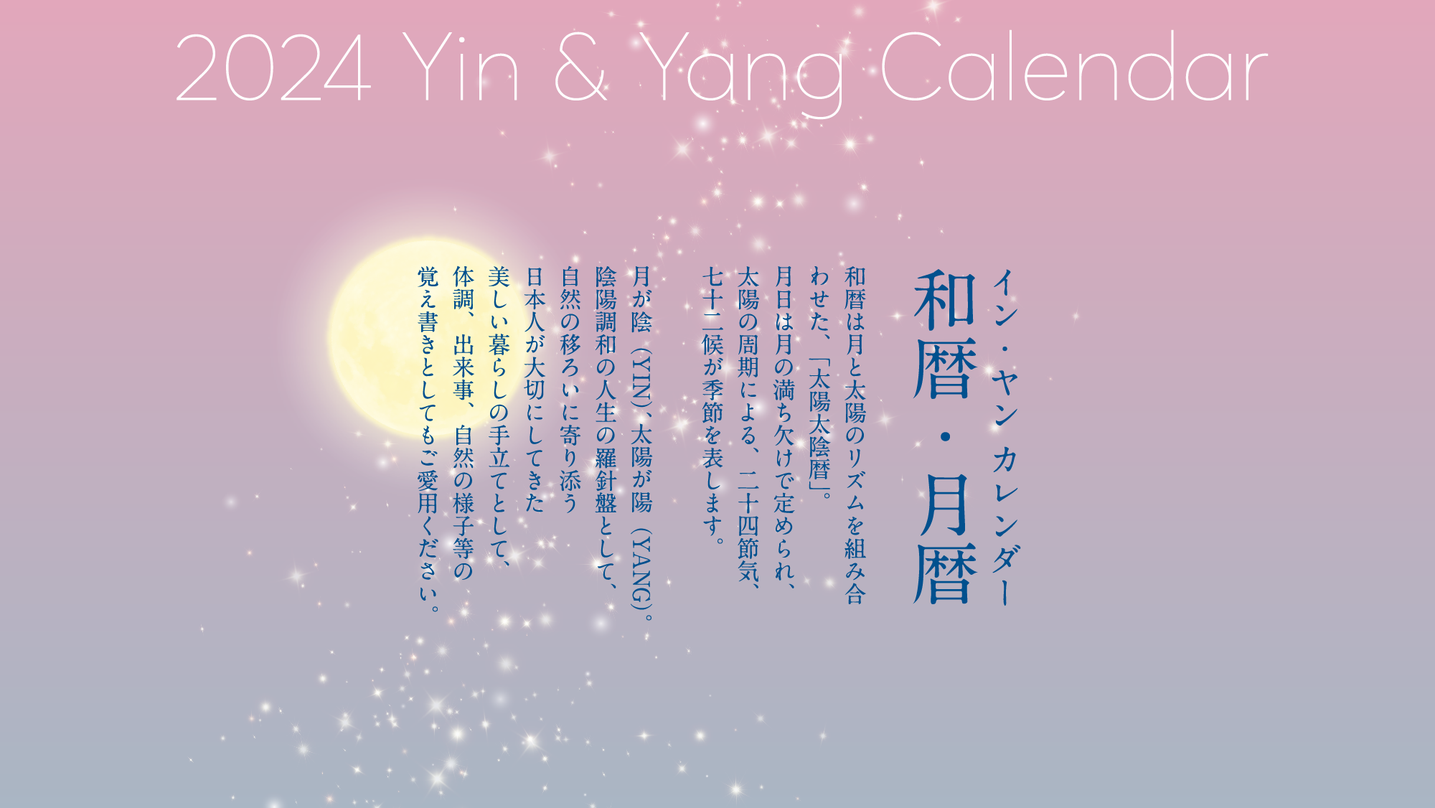
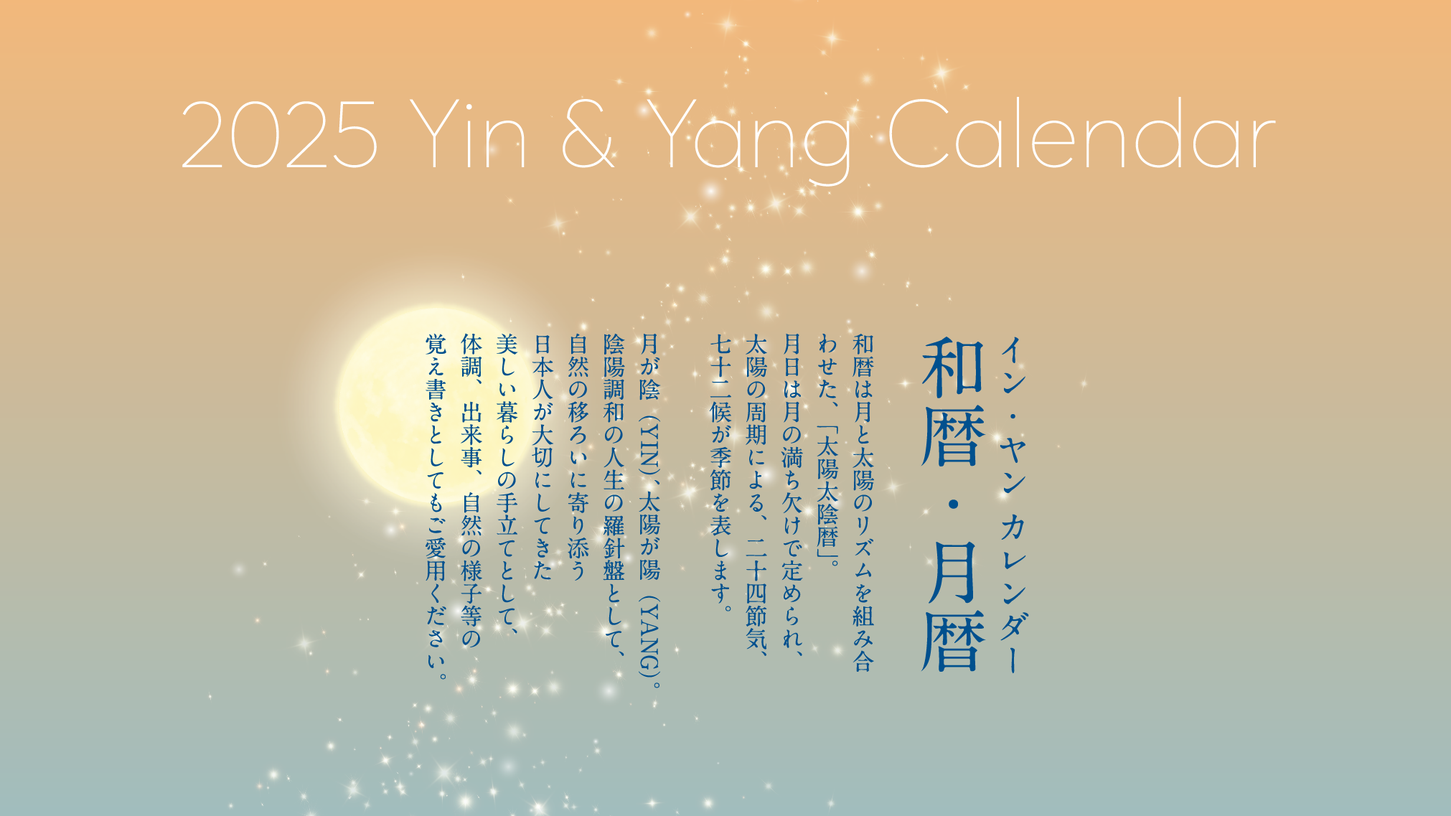
Add 2025

diff --git a/docs/_nuxt/dd99a91.js b/docs/_nuxt/dd99a91.js
@@ -1,0 +1,1 @@
+(window.webpackJsonp=window.webpackJsonp||[]).push([[3,2],{289:function(t,n,e){var content=e(292);content.__esModule&&(content=content.default),"string"==typeof content&&(content=[[t.i,content,""]]),content.locals&&(t.exports=content.locals);(0,e(61).default)("5e4b7342",content,!0,{sourceMap:!1})},290:function(t,n,e){"use strict";e.r(n);e(291);var o=e(44),component=Object(o.a)({},(function(){this._self._c;return this._m(0)}),[function(){var t=this._self._c;return t("footer",[t("div",{staticClass:"container text-center"},[t("div",{staticClass:"row"},[t("div",{staticClass:"col-md-8 col-md-offset-2 footer"},[t("div",{staticClass:"copyright"},[t("small",[this._v("Copyright © Yin&Yang Calendar All rights reserved.")])])])])])])}],!1,null,"673f15c2",null);n.default=component.exports;installComponents(component,{Footer:e(290).default})},291:function(t,n,e){"use strict";e(289)},292:function(t,n,e){var o=e(60)((function(i){return i[1]}));o.push([t.i,".footer[data-v-673f15c2]{color:#fff;margin-bottom:25px;margin-top:25px}",""]),o.locals={},t.exports=o},294:function(t,n,e){var content=e(301);content.__esModule&&(content=content.default),"string"==typeof content&&(content=[[t.i,content,""]]),content.locals&&(t.exports=content.locals);(0,e(61).default)("0acffc4a",content,!0,{sourceMap:!1})},295:function(t,n,e){var content=e(305);content.__esModule&&(content=content.default),"string"==typeof content&&(content=[[t.i,content,""]]),content.locals&&(t.exports=content.locals);(0,e(61).default)("6ab918de",content,!0,{sourceMap:!1})},298:function(t,n,e){t.exports=e.p+"img/title.49f3552.svg"},299:function(t,n,e){t.exports=e.p+"img/text.3ef17b1.svg"},300:function(t,n,e){"use strict";e(294)},301:function(t,n,e){var o=e(60),r=e(131),l=e(302),c=e(303),d=o((function(i){return i[1]})),f=r(l),m=r(c);d.push([t.i,".bg[data-v-15ad3a7e]{display:none}@media(min-width:768px){.bg[data-v-15ad3a7e]{background-image:url("+f+");background-position:30% top;background-repeat:no-repeat;background-size:contain;display:block;height:100%;mix-blend-mode:screen;position:absolute;width:100%}}.main[data-v-15ad3a7e]{background-image:url("+m+");background-position:100% 100%;background-repeat:no-repeat;background-size:contain;mix-blend-mode:normal;padding-bottom:50px}@media(min-width:768px){.main[data-v-15ad3a7e]{background-position:28% 38%;background-size:20%;padding-bottom:50px}}.title[data-v-15ad3a7e]{padding:50px 0}@media(min-width:768px){.title[data-v-15ad3a7e]{padding:80px 0}}.text[data-v-15ad3a7e]{padding:20px 0}@media(min-width:768px){.text[data-v-15ad3a7e]{padding:50px 0}.text img[data-v-15ad3a7e]{width:420px}}.center-block .color-gold[data-v-15ad3a7e]{background-color:#fff;border:1px solid #fff;color:#cea57e}.center-block .color-gold[data-v-15ad3a7e]:focus,.center-block .color-gold[data-v-15ad3a7e]:hover{background-color:#cea57e;border:1px solid #cea57e;color:#fff;outline:none}",""]),d.locals={},t.exports=d},302:function(t,n,e){t.exports=e.p+"img/bg@2x.7ae2d56.png"},303:function(t,n,e){t.exports=e.p+"img/moon@2x.6d5a927.png"},304:function(t,n,e){"use strict";e(295)},305:function(t,n,e){var o=e(60)((function(i){return i[1]}));o.push([t.i,".banner ul div{margin-bottom:30px}.banner ul div a{color:#fff}.banner li{margin-bottom:15px}.banner li.center-block{display:block}.banner li small{font-size:10px;margin-right:5px}.banner .btn{border-radius:0;transition:all .3s ease-in-out}.banner .btn-default{background-color:transparent;border:1px solid #fff;color:#fff}.banner .btn-default:focus,.banner .btn-default:hover{background-color:#cea57e;border:1px solid #cea57e;color:#fff;outline:none}",""]),o.locals={},t.exports=o},307:function(t,n,e){"use strict";e.r(n);var o=[function(){var t=this,n=t._self._c;return n("div",{staticClass:"col-md-12 main"},[n("div",{staticClass:"bg"}),t._v(" "),n("div",{staticClass:"container"},[n("div",{staticClass:"row"},[n("div",{staticClass:"col-md-8 col-md-offset-2 title"},[n("img",{attrs:{src:e(298),alt:"2025 Yin&Yang Calendar"}})])])]),t._v(" "),n("div",{staticClass:"text"},[n("img",{attrs:{src:e(299),alt:"イン・ヤン カレンダー 和暦・月暦"}})])])},function(){var t=this,n=t._self._c;return n("li",{staticClass:"center-block"},[n("a",{staticClass:"btn btn-default btn-lg color-gold",attrs:{href:"https://www.amazon.co.jp/dp/B0DG5CHNWW?tag=chiakira-22",target:"_blank"}},[n("i",{staticClass:"fab fa-amazon fa-fw"}),t._v(" "),n("span",{staticClass:"network-name"},[t._v("Amazonで詳しくみる")])])])},function(){var t=this,n=t._self._c;return n("li",{staticClass:"center-block"},[n("a",{staticClass:"btn btn-default btn-lg",attrs:{href:"https://tukiyomi.in/",target:"_blank"}},[n("span",{staticClass:"network-name"},[n("small",[t._v("Salon")]),t._v("つきよみ白金台\n                ")])])])},function(){var t=this,n=t._self._c;return n("li",[n("a",{staticClass:"btn btn-default btn-lg",attrs:{href:"https://www.instagram.com/tukiyomichan/",target:"_blank"}},[n("i",{staticClass:"fab fa-instagram fa-fw"}),t._v(" "),n("span",{staticClass:"network-name"},[t._v("Instagram")])])])},function(){var t=this,n=t._self._c;return n("li",[n("a",{staticClass:"btn btn-default btn-lg",attrs:{href:"https://www.facebook.com/tukiyomichan",target:"_blank"}},[n("i",{staticClass:"fab fa-facebook-square fa-fw"}),t._v(" "),n("span",{staticClass:"network-name"},[t._v("Facebook")])])])},function(){var t=this,n=t._self._c;return n("li",[n("a",{staticClass:"btn btn-default btn-lg",attrs:{href:"https://twitter.com/tukiyomichan",target:"_blank"}},[n("i",{staticClass:"fab fa-twitter fa-fw"}),t._v(" "),n("span",{staticClass:"network-name"},[t._v("Twitter")])])])},function(){var t=this,n=t._self._c;return n("li",[n("a",{staticClass:"btn btn-default btn-lg",attrs:{href:"https://ameblo.jp/tukiyomichan/",target:"_blank"}},[n("i",{staticClass:"fas fa-edit fa-fw"}),t._v(" "),n("span",{staticClass:"network-name"},[t._v("Blog")])])])}],r=(e(300),e(304),e(44)),component=Object(r.a)({},(function(){var t=this,n=t._self._c;return n("div",[n("main",[n("div",{staticClass:"container text-center"},[n("div",{staticClass:"row"},[t._m(0),t._v(" "),n("div",{staticClass:"col-md-8 col-md-offset-2 banner"},[n("ul",{staticClass:"list-inline"},[t._m(1),t._v(" "),n("div",[n("nuxt-link",{attrs:{to:"/pricing/"}},[t._v("卸価格はこちら")])],1),t._v(" "),t._m(2),t._v(" "),t._m(3),t._v(" "),t._m(4),t._v(" "),t._m(5),t._v(" "),t._m(6)])])])])]),t._v(" "),n("Footer")],1)}),o,!1,null,"15ad3a7e",null);n.default=component.exports;installComponents(component,{Footer:e(290).default})}}]);

diff --git a/docs/200.html b/docs/200.html
@@ -1,9 +1,9 @@
 <!doctype html>
 <html>
   <head>
-    <meta data-n-head="1" charset="utf-8"><meta data-n-head="1" name="viewport" content="width=device-width,initial-scale=1"><meta data-n-head="1" data-hid="description" name="description" content="今日が和暦で何月何日なのかが簡単にわかるカレンダー「Yin&Yang Calendar」"><meta data-n-head="1" property="og:url" content="https://yinyang-calendar.com/"><meta data-n-head="1" property="og:title" content="Yin&Yang Calendar"><meta data-n-head="1" property="og:description" content="今日が和暦で何月何日なのかが簡単にわかるカレンダー「Yin&Yang Calendar」"><meta data-n-head="1" property="og:image" content="https://yinyang-calendar.com/og.png"><meta data-n-head="1" property="og:type" content="website"><meta data-n-head="1" property="og:site_name" content="Yin&Yang Calendar"><meta data-n-head="1" name="twitter:card" content="summary_large_image"><meta data-n-head="1" name="twitter:site" content="@tukiyomichan"><meta data-n-head="1" name="twitter:title" content="Yin&Yang Calendar"><meta data-n-head="1" name="twitter:description" content="今日が和暦で何月何日なのかが簡単にわかるカレンダー「Yin&Yang Calendar」"><meta data-n-head="1" name="twitter:image" content="https://yinyang-calendar.com/og.png"><title>Yin&Yang Calendar</title><link data-n-head="1" rel="icon" href="/favicon.png"><link data-n-head="1" rel="canonical" href="https://yinyang-calendar.com/"><link rel="preload" href="/_nuxt/902f355.js" as="script"><link rel="preload" href="/_nuxt/4d5137b.js" as="script"><link rel="preload" href="/_nuxt/0d0df91.js" as="script"><link rel="preload" href="/_nuxt/0bcc690.js" as="script">
+    <meta data-n-head="1" charset="utf-8"><meta data-n-head="1" name="viewport" content="width=device-width,initial-scale=1"><meta data-n-head="1" data-hid="description" name="description" content="今日が和暦で何月何日なのかが簡単にわかるカレンダー「Yin&Yang Calendar」"><meta data-n-head="1" property="og:url" content="https://yinyang-calendar.com/"><meta data-n-head="1" property="og:title" content="Yin&Yang Calendar"><meta data-n-head="1" property="og:description" content="今日が和暦で何月何日なのかが簡単にわかるカレンダー「Yin&Yang Calendar」"><meta data-n-head="1" property="og:image" content="https://yinyang-calendar.com/og.png"><meta data-n-head="1" property="og:type" content="website"><meta data-n-head="1" property="og:site_name" content="Yin&Yang Calendar"><meta data-n-head="1" name="twitter:card" content="summary_large_image"><meta data-n-head="1" name="twitter:site" content="@tukiyomichan"><meta data-n-head="1" name="twitter:title" content="Yin&Yang Calendar"><meta data-n-head="1" name="twitter:description" content="今日が和暦で何月何日なのかが簡単にわかるカレンダー「Yin&Yang Calendar」"><meta data-n-head="1" name="twitter:image" content="https://yinyang-calendar.com/og.png"><title>Yin&Yang Calendar</title><link data-n-head="1" rel="icon" href="/favicon.png"><link data-n-head="1" rel="canonical" href="https://yinyang-calendar.com/"><link rel="preload" href="/_nuxt/3dc8ebc.js" as="script"><link rel="preload" href="/_nuxt/4d5137b.js" as="script"><link rel="preload" href="/_nuxt/0d0df91.js" as="script"><link rel="preload" href="/_nuxt/50567b7.js" as="script">
   </head>
   <body>
     <div id="__nuxt"><style>#nuxt-loading{background:#fff;visibility:hidden;opacity:0;position:absolute;left:0;right:0;top:0;bottom:0;display:flex;justify-content:center;align-items:center;flex-direction:column;animation:nuxtLoadingIn 10s ease;-webkit-animation:nuxtLoadingIn 10s ease;animation-fill-mode:forwards;overflow:hidden}@keyframes nuxtLoadingIn{0%{visibility:hidden;opacity:0}20%{visibility:visible;opacity:0}100%{visibility:visible;opacity:1}}@-webkit-keyframes nuxtLoadingIn{0%{visibility:hidden;opacity:0}20%{visibility:visible;opacity:0}100%{visibility:visible;opacity:1}}#nuxt-loading>div,#nuxt-loading>div:after{border-radius:50%;width:5rem;height:5rem}#nuxt-loading>div{font-size:10px;position:relative;text-indent:-9999em;border:.5rem solid #f5f5f5;border-left:.5rem solid #000;-webkit-transform:translateZ(0);-ms-transform:translateZ(0);transform:translateZ(0);-webkit-animation:nuxtLoading 1.1s infinite linear;animation:nuxtLoading 1.1s infinite linear}#nuxt-loading.error>div{border-left:.5rem solid #ff4500;animation-duration:5s}@-webkit-keyframes nuxtLoading{0%{-webkit-transform:rotate(0);transform:rotate(0)}100%{-webkit-transform:rotate(360deg);transform:rotate(360deg)}}@keyframes nuxtLoading{0%{-webkit-transform:rotate(0);transform:rotate(0)}100%{-webkit-transform:rotate(360deg);transform:rotate(360deg)}}</style> <script>window.addEventListener("error",function(){var e=document.getElementById("nuxt-loading");e&&(e.className+=" error")})</script> <div id="nuxt-loading" aria-live="polite" role="status"><div>Loading...</div></div> </div><script>window.__NUXT__={config:{_app:{basePath:"/",assetsPath:"/_nuxt/",cdnURL:null}}}</script>
-  <script src="/_nuxt/902f355.js"></script><script src="/_nuxt/4d5137b.js"></script><script src="/_nuxt/0d0df91.js"></script><script src="/_nuxt/0bcc690.js"></script></body>
+  <script src="/_nuxt/3dc8ebc.js"></script><script src="/_nuxt/4d5137b.js"></script><script src="/_nuxt/0d0df91.js"></script><script src="/_nuxt/50567b7.js"></script></body>
 </html>

diff --git a/docs/index.html b/docs/index.html
@@ -1,9 +1,9 @@
 <!doctype html>
 <html>
   <head>
-    <meta data-n-head="1" charset="utf-8"><meta data-n-head="1" name="viewport" content="width=device-width,initial-scale=1"><meta data-n-head="1" data-hid="description" name="description" content="今日が和暦で何月何日なのかが簡単にわかるカレンダー「Yin&Yang Calendar」"><meta data-n-head="1" property="og:url" content="https://yinyang-calendar.com/"><meta data-n-head="1" property="og:title" content="Yin&Yang Calendar"><meta data-n-head="1" property="og:description" content="今日が和暦で何月何日なのかが簡単にわかるカレンダー「Yin&Yang Calendar」"><meta data-n-head="1" property="og:image" content="https://yinyang-calendar.com/og.png"><meta data-n-head="1" property="og:type" content="website"><meta data-n-head="1" property="og:site_name" content="Yin&Yang Calendar"><meta data-n-head="1" name="twitter:card" content="summary_large_image"><meta data-n-head="1" name="twitter:site" content="@tukiyomichan"><meta data-n-head="1" name="twitter:title" content="Yin&Yang Calendar"><meta data-n-head="1" name="twitter:description" content="今日が和暦で何月何日なのかが簡単にわかるカレンダー「Yin&Yang Calendar」"><meta data-n-head="1" name="twitter:image" content="https://yinyang-calendar.com/og.png"><title>Yin&Yang Calendar</title><link data-n-head="1" rel="icon" href="/favicon.png"><link data-n-head="1" rel="canonical" href="https://yinyang-calendar.com/"><link rel="preload" href="/_nuxt/902f355.js" as="script"><link rel="preload" href="/_nuxt/4d5137b.js" as="script"><link rel="preload" href="/_nuxt/0d0df91.js" as="script"><link rel="preload" href="/_nuxt/0bcc690.js" as="script">
+    <meta data-n-head="1" charset="utf-8"><meta data-n-head="1" name="viewport" content="width=device-width,initial-scale=1"><meta data-n-head="1" data-hid="description" name="description" content="今日が和暦で何月何日なのかが簡単にわかるカレンダー「Yin&Yang Calendar」"><meta data-n-head="1" property="og:url" content="https://yinyang-calendar.com/"><meta data-n-head="1" property="og:title" content="Yin&Yang Calendar"><meta data-n-head="1" property="og:description" content="今日が和暦で何月何日なのかが簡単にわかるカレンダー「Yin&Yang Calendar」"><meta data-n-head="1" property="og:image" content="https://yinyang-calendar.com/og.png"><meta data-n-head="1" property="og:type" content="website"><meta data-n-head="1" property="og:site_name" content="Yin&Yang Calendar"><meta data-n-head="1" name="twitter:card" content="summary_large_image"><meta data-n-head="1" name="twitter:site" content="@tukiyomichan"><meta data-n-head="1" name="twitter:title" content="Yin&Yang Calendar"><meta data-n-head="1" name="twitter:description" content="今日が和暦で何月何日なのかが簡単にわかるカレンダー「Yin&Yang Calendar」"><meta data-n-head="1" name="twitter:image" content="https://yinyang-calendar.com/og.png"><title>Yin&Yang Calendar</title><link data-n-head="1" rel="icon" href="/favicon.png"><link data-n-head="1" rel="canonical" href="https://yinyang-calendar.com/"><link rel="preload" href="/_nuxt/3dc8ebc.js" as="script"><link rel="preload" href="/_nuxt/4d5137b.js" as="script"><link rel="preload" href="/_nuxt/0d0df91.js" as="script"><link rel="preload" href="/_nuxt/50567b7.js" as="script">
   </head>
   <body>
     <div id="__nuxt"><style>#nuxt-loading{background:#fff;visibility:hidden;opacity:0;position:absolute;left:0;right:0;top:0;bottom:0;display:flex;justify-content:center;align-items:center;flex-direction:column;animation:nuxtLoadingIn 10s ease;-webkit-animation:nuxtLoadingIn 10s ease;animation-fill-mode:forwards;overflow:hidden}@keyframes nuxtLoadingIn{0%{visibility:hidden;opacity:0}20%{visibility:visible;opacity:0}100%{visibility:visible;opacity:1}}@-webkit-keyframes nuxtLoadingIn{0%{visibility:hidden;opacity:0}20%{visibility:visible;opacity:0}100%{visibility:visible;opacity:1}}#nuxt-loading>div,#nuxt-loading>div:after{border-radius:50%;width:5rem;height:5rem}#nuxt-loading>div{font-size:10px;position:relative;text-indent:-9999em;border:.5rem solid #f5f5f5;border-left:.5rem solid #000;-webkit-transform:translateZ(0);-ms-transform:translateZ(0);transform:translateZ(0);-webkit-animation:nuxtLoading 1.1s infinite linear;animation:nuxtLoading 1.1s infinite linear}#nuxt-loading.error>div{border-left:.5rem solid #ff4500;animation-duration:5s}@-webkit-keyframes nuxtLoading{0%{-webkit-transform:rotate(0);transform:rotate(0)}100%{-webkit-transform:rotate(360deg);transform:rotate(360deg)}}@keyframes nuxtLoading{0%{-webkit-transform:rotate(0);transform:rotate(0)}100%{-webkit-transform:rotate(360deg);transform:rotate(360deg)}}</style> <script>window.addEventListener("error",function(){var e=document.getElementById("nuxt-loading");e&&(e.className+=" error")})</script> <div id="nuxt-loading" aria-live="polite" role="status"><div>Loading...</div></div> </div><script>window.__NUXT__={config:{_app:{basePath:"/",assetsPath:"/_nuxt/",cdnURL:null}}}</script>
-  <script src="/_nuxt/902f355.js"></script><script src="/_nuxt/4d5137b.js"></script><script src="/_nuxt/0d0df91.js"></script><script src="/_nuxt/0bcc690.js"></script></body>
+  <script src="/_nuxt/3dc8ebc.js"></script><script src="/_nuxt/4d5137b.js"></script><script src="/_nuxt/0d0df91.js"></script><script src="/_nuxt/50567b7.js"></script></body>
 </html>

diff --git a/docs/pricing/index.html b/docs/pricing/index.html
@@ -1,9 +1,9 @@
 <!doctype html>
 <html>
   <head>
-    <meta data-n-head="1" charset="utf-8"><meta data-n-head="1" name="viewport" content="width=device-width,initial-scale=1"><meta data-n-head="1" data-hid="description" name="description" content="今日が和暦で何月何日なのかが簡単にわかるカレンダー「Yin&Yang Calendar」"><meta data-n-head="1" property="og:url" content="https://yinyang-calendar.com/"><meta data-n-head="1" property="og:title" content="Yin&Yang Calendar"><meta data-n-head="1" property="og:description" content="今日が和暦で何月何日なのかが簡単にわかるカレンダー「Yin&Yang Calendar」"><meta data-n-head="1" property="og:image" content="https://yinyang-calendar.com/og.png"><meta data-n-head="1" property="og:type" content="website"><meta data-n-head="1" property="og:site_name" content="Yin&Yang Calendar"><meta data-n-head="1" name="twitter:card" content="summary_large_image"><meta data-n-head="1" name="twitter:site" content="@tukiyomichan"><meta data-n-head="1" name="twitter:title" content="Yin&Yang Calendar"><meta data-n-head="1" name="twitter:description" content="今日が和暦で何月何日なのかが簡単にわかるカレンダー「Yin&Yang Calendar」"><meta data-n-head="1" name="twitter:image" content="https://yinyang-calendar.com/og.png"><title>Yin&Yang Calendar</title><link data-n-head="1" rel="icon" href="/favicon.png"><link data-n-head="1" rel="canonical" href="https://yinyang-calendar.com/"><link rel="preload" href="/_nuxt/902f355.js" as="script"><link rel="preload" href="/_nuxt/4d5137b.js" as="script"><link rel="preload" href="/_nuxt/0d0df91.js" as="script"><link rel="preload" href="/_nuxt/0bcc690.js" as="script">
+    <meta data-n-head="1" charset="utf-8"><meta data-n-head="1" name="viewport" content="width=device-width,initial-scale=1"><meta data-n-head="1" data-hid="description" name="description" content="今日が和暦で何月何日なのかが簡単にわかるカレンダー「Yin&Yang Calendar」"><meta data-n-head="1" property="og:url" content="https://yinyang-calendar.com/"><meta data-n-head="1" property="og:title" content="Yin&Yang Calendar"><meta data-n-head="1" property="og:description" content="今日が和暦で何月何日なのかが簡単にわかるカレンダー「Yin&Yang Calendar」"><meta data-n-head="1" property="og:image" content="https://yinyang-calendar.com/og.png"><meta data-n-head="1" property="og:type" content="website"><meta data-n-head="1" property="og:site_name" content="Yin&Yang Calendar"><meta data-n-head="1" name="twitter:card" content="summary_large_image"><meta data-n-head="1" name="twitter:site" content="@tukiyomichan"><meta data-n-head="1" name="twitter:title" content="Yin&Yang Calendar"><meta data-n-head="1" name="twitter:description" content="今日が和暦で何月何日なのかが簡単にわかるカレンダー「Yin&Yang Calendar」"><meta data-n-head="1" name="twitter:image" content="https://yinyang-calendar.com/og.png"><title>Yin&Yang Calendar</title><link data-n-head="1" rel="icon" href="/favicon.png"><link data-n-head="1" rel="canonical" href="https://yinyang-calendar.com/"><link rel="preload" href="/_nuxt/3dc8ebc.js" as="script"><link rel="preload" href="/_nuxt/4d5137b.js" as="script"><link rel="preload" href="/_nuxt/0d0df91.js" as="script"><link rel="preload" href="/_nuxt/50567b7.js" as="script">
   </head>
   <body>
     <div id="__nuxt"><style>#nuxt-loading{background:#fff;visibility:hidden;opacity:0;position:absolute;left:0;right:0;top:0;bottom:0;display:flex;justify-content:center;align-items:center;flex-direction:column;animation:nuxtLoadingIn 10s ease;-webkit-animation:nuxtLoadingIn 10s ease;animation-fill-mode:forwards;overflow:hidden}@keyframes nuxtLoadingIn{0%{visibility:hidden;opacity:0}20%{visibility:visible;opacity:0}100%{visibility:visible;opacity:1}}@-webkit-keyframes nuxtLoadingIn{0%{visibility:hidden;opacity:0}20%{visibility:visible;opacity:0}100%{visibility:visible;opacity:1}}#nuxt-loading>div,#nuxt-loading>div:after{border-radius:50%;width:5rem;height:5rem}#nuxt-loading>div{font-size:10px;position:relative;text-indent:-9999em;border:.5rem solid #f5f5f5;border-left:.5rem solid #000;-webkit-transform:translateZ(0);-ms-transform:translateZ(0);transform:translateZ(0);-webkit-animation:nuxtLoading 1.1s infinite linear;animation:nuxtLoading 1.1s infinite linear}#nuxt-loading.error>div{border-left:.5rem solid #ff4500;animation-duration:5s}@-webkit-keyframes nuxtLoading{0%{-webkit-transform:rotate(0);transform:rotate(0)}100%{-webkit-transform:rotate(360deg);transform:rotate(360deg)}}@keyframes nuxtLoading{0%{-webkit-transform:rotate(0);transform:rotate(0)}100%{-webkit-transform:rotate(360deg);transform:rotate(360deg)}}</style> <script>window.addEventListener("error",function(){var e=document.getElementById("nuxt-loading");e&&(e.className+=" error")})</script> <div id="nuxt-loading" aria-live="polite" role="status"><div>Loading...</div></div> </div><script>window.__NUXT__={config:{_app:{basePath:"/",assetsPath:"/_nuxt/",cdnURL:null}}}</script>
-  <script src="/_nuxt/902f355.js"></script><script src="/_nuxt/4d5137b.js"></script><script src="/_nuxt/0d0df91.js"></script><script src="/_nuxt/0bcc690.js"></script></body>
+  <script src="/_nuxt/3dc8ebc.js"></script><script src="/_nuxt/4d5137b.js"></script><script src="/_nuxt/0d0df91.js"></script><script src="/_nuxt/50567b7.js"></script></body>
 </html>

diff --git a/docs/_nuxt/3dc8ebc.js b/docs/_nuxt/3dc8ebc.js
@@ -1,0 +1,1 @@
+!function(e){function r(data){for(var r,n,l=data[0],f=data[1],d=data[2],i=0,h=[];i<l.length;i++)n=l[i],Object.prototype.hasOwnProperty.call(o,n)&&o[n]&&h.push(o[n][0]),o[n]=0;for(r in f)Object.prototype.hasOwnProperty.call(f,r)&&(e[r]=f[r]);for(v&&v(data);h.length;)h.shift()();return c.push.apply(c,d||[]),t()}function t(){for(var e,i=0;i<c.length;i++){for(var r=c[i],t=!0,n=1;n<r.length;n++){var f=r[n];0!==o[f]&&(t=!1)}t&&(c.splice(i--,1),e=l(l.s=r[0]))}return e}var n={},o={5:0},c=[];function l(r){if(n[r])return n[r].exports;var t=n[r]={i:r,l:!1,exports:{}};return e[r].call(t.exports,t,t.exports,l),t.l=!0,t.exports}l.e=function(e){var r=[],t=o[e];if(0!==t)if(t)r.push(t[2]);else{var n=new Promise((function(r,n){t=o[e]=[r,n]}));r.push(t[2]=n);var c,script=document.createElement("script");script.charset="utf-8",script.timeout=120,l.nc&&script.setAttribute("nonce",l.nc),script.src=function(e){return l.p+""+{2:"600dd1d",3:"dd99a91",4:"989aa0b"}[e]+".js"}(e);var f=new Error;c=function(r){script.onerror=script.onload=null,clearTimeout(d);var t=o[e];if(0!==t){if(t){var n=r&&("load"===r.type?"missing":r.type),c=r&&r.target&&r.target.src;f.message="Loading chunk "+e+" failed.\n("+n+": "+c+")",f.name="ChunkLoadError",f.type=n,f.request=c,t[1](f)}o[e]=void 0}};var d=setTimeout((function(){c({type:"timeout",target:script})}),12e4);script.onerror=script.onload=c,document.head.appendChild(script)}return Promise.all(r)},l.m=e,l.c=n,l.d=function(e,r,t){l.o(e,r)||Object.defineProperty(e,r,{enumerable:!0,get:t})},l.r=function(e){"undefined"!=typeof Symbol&&Symbol.toStringTag&&Object.defineProperty(e,Symbol.toStringTag,{value:"Module"}),Object.defineProperty(e,"__esModule",{value:!0})},l.t=function(e,r){if(1&r&&(e=l(e)),8&r)return e;if(4&r&&"object"==typeof e&&e&&e.__esModule)return e;var t=Object.create(null);if(l.r(t),Object.defineProperty(t,"default",{enumerable:!0,value:e}),2&r&&"string"!=typeof e)for(var n in e)l.d(t,n,function(r){return e[r]}.bind(null,n));return t},l.n=function(e){var r=e&&e.__esModule?function(){return e.default}:function(){return e};return l.d(r,"a",r),r},l.o=function(object,e){return Object.prototype.hasOwnProperty.call(object,e)},l.p="/_nuxt/",l.oe=function(e){throw console.error(e),e};var f=window.webpackJsonp=window.webpackJsonp||[],d=f.push.bind(f);f.push=r,f=f.slice();for(var i=0;i<f.length;i++)r(f[i]);var v=d;t()}([]);

diff --git a/docs/_nuxt/50567b7.js b/docs/_nuxt/50567b7.js
@@ -1,0 +1,1 @@
+(window.webpackJsonp=window.webpackJsonp||[]).push([[0],{186:function(t,n,e){var content=e(288);content.__esModule&&(content=content.default),"string"==typeof content&&(content=[[t.i,content,""]]),content.locals&&(t.exports=content.locals);(0,e(61).default)("6e50f7ef",content,!0,{sourceMap:!1})},192:function(t,n,e){"use strict";e(287);var o=e(44),component=Object(o.a)({},(function(){var t=this._self._c;return t("div",[t("Nuxt")],1)}),[],!1,null,null,null);n.a=component.exports},193:function(t,n,e){e(194),t.exports=e(195)},287:function(t,n,e){"use strict";e(186)},288:function(t,n,e){var o=e(60)((function(i){return i[1]}));o.push([t.i,'body,html{background:linear-gradient(0deg,#66c0ed,#f6b878);font-family:"Montserrat",sans-serif;min-height:100vh}img{max-height:100%;max-width:100%}',""]),o.locals={},t.exports=o}},[[193,5,1,6]]]);

diff --git a/pages/index.vue b/pages/index.vue
@@ -8,7 +8,7 @@
             <div class="container">
               <div class="row">
                 <div class="col-md-8 col-md-offset-2 title">
-                  <img src="~assets/title.svg" alt="2024 Yin&Yang Calendar" />
+                  <img src="~assets/title.svg" alt="2025 Yin&Yang Calendar" />
                 </div>
               </div>
             </div>
@@ -23,7 +23,7 @@
             <ul class="list-inline">
               <li class="center-block">
                 <a
-                  href="https://www.amazon.co.jp/dp/B0CJLJMQ3G?tag=chiakira-22"
+                  href="https://www.amazon.co.jp/dp/B0DG5CHNWW?tag=chiakira-22"
                   target="_blank"
                   class="btn btn-default btn-lg color-gold"
                 >

diff --git a/layouts/default.vue b/layouts/default.vue
@@ -7,7 +7,7 @@
 <style lang="scss">
 html,
 body {
-  background: linear-gradient(0deg, #85bfc9 0%, #eaa5ba 100%);
+  background: linear-gradient(0deg, #66c0ed 0%, #f6b878 100%);
   min-height: 100vh;
   font-family: $font;
 }
